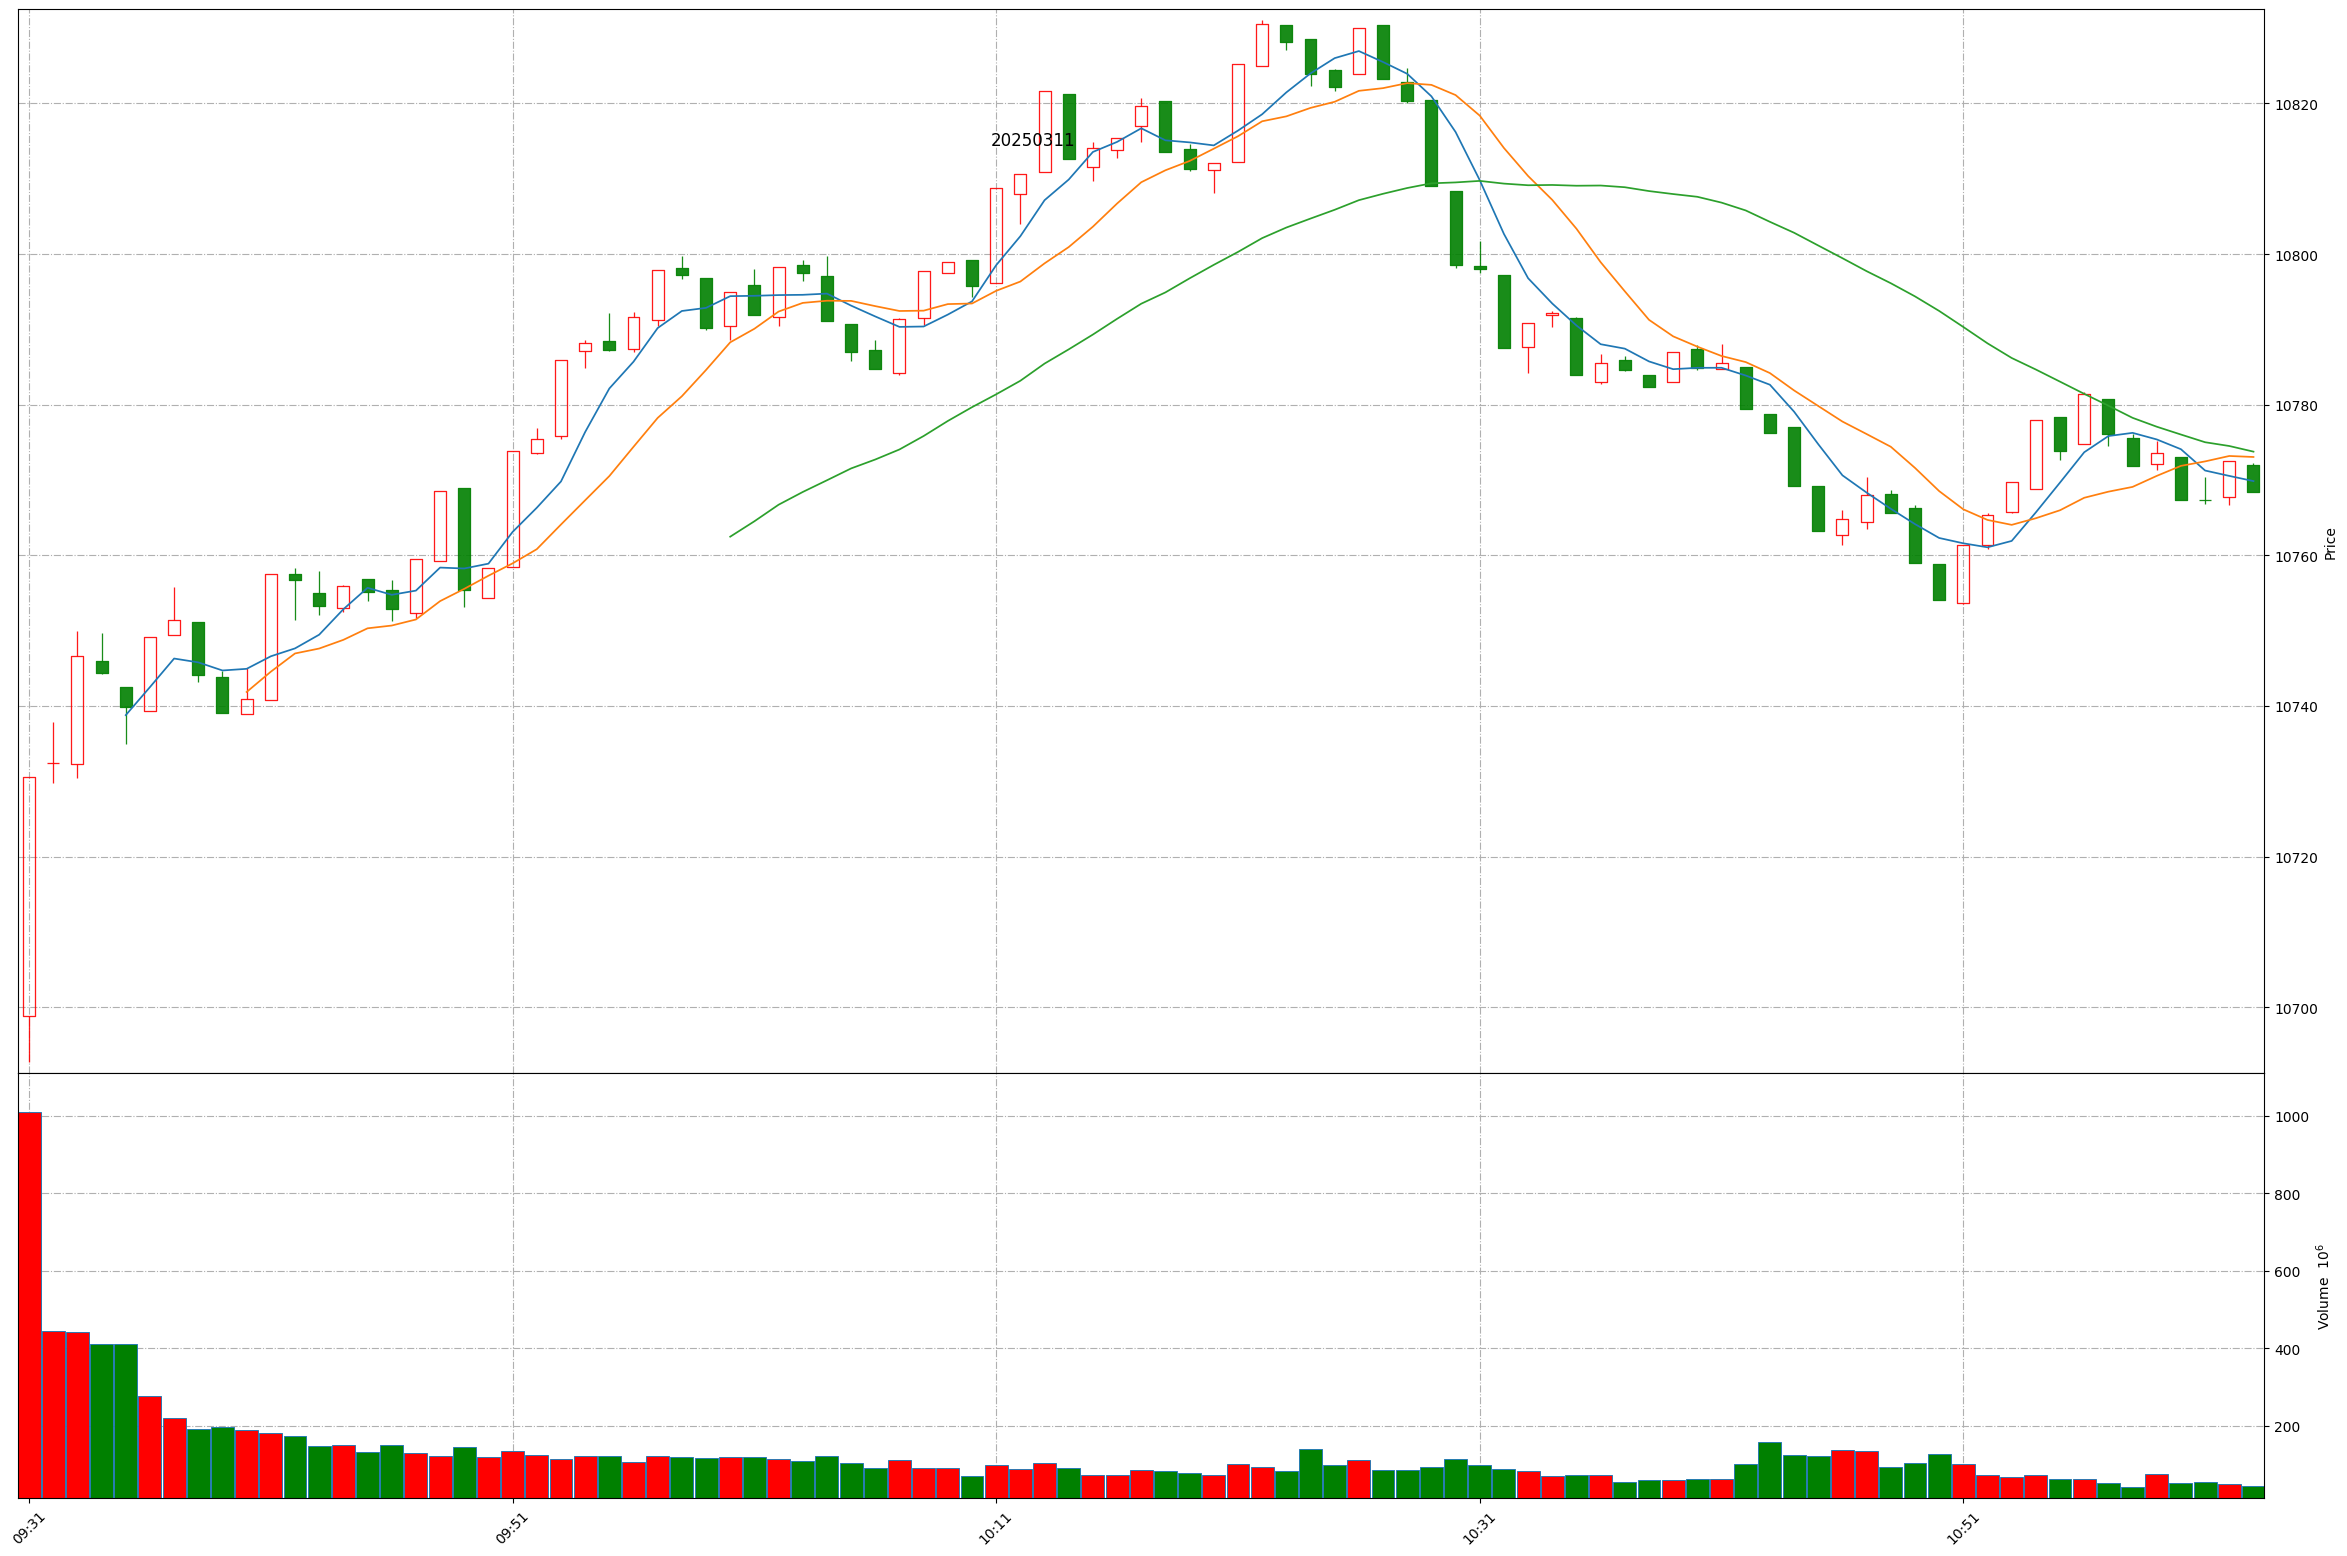
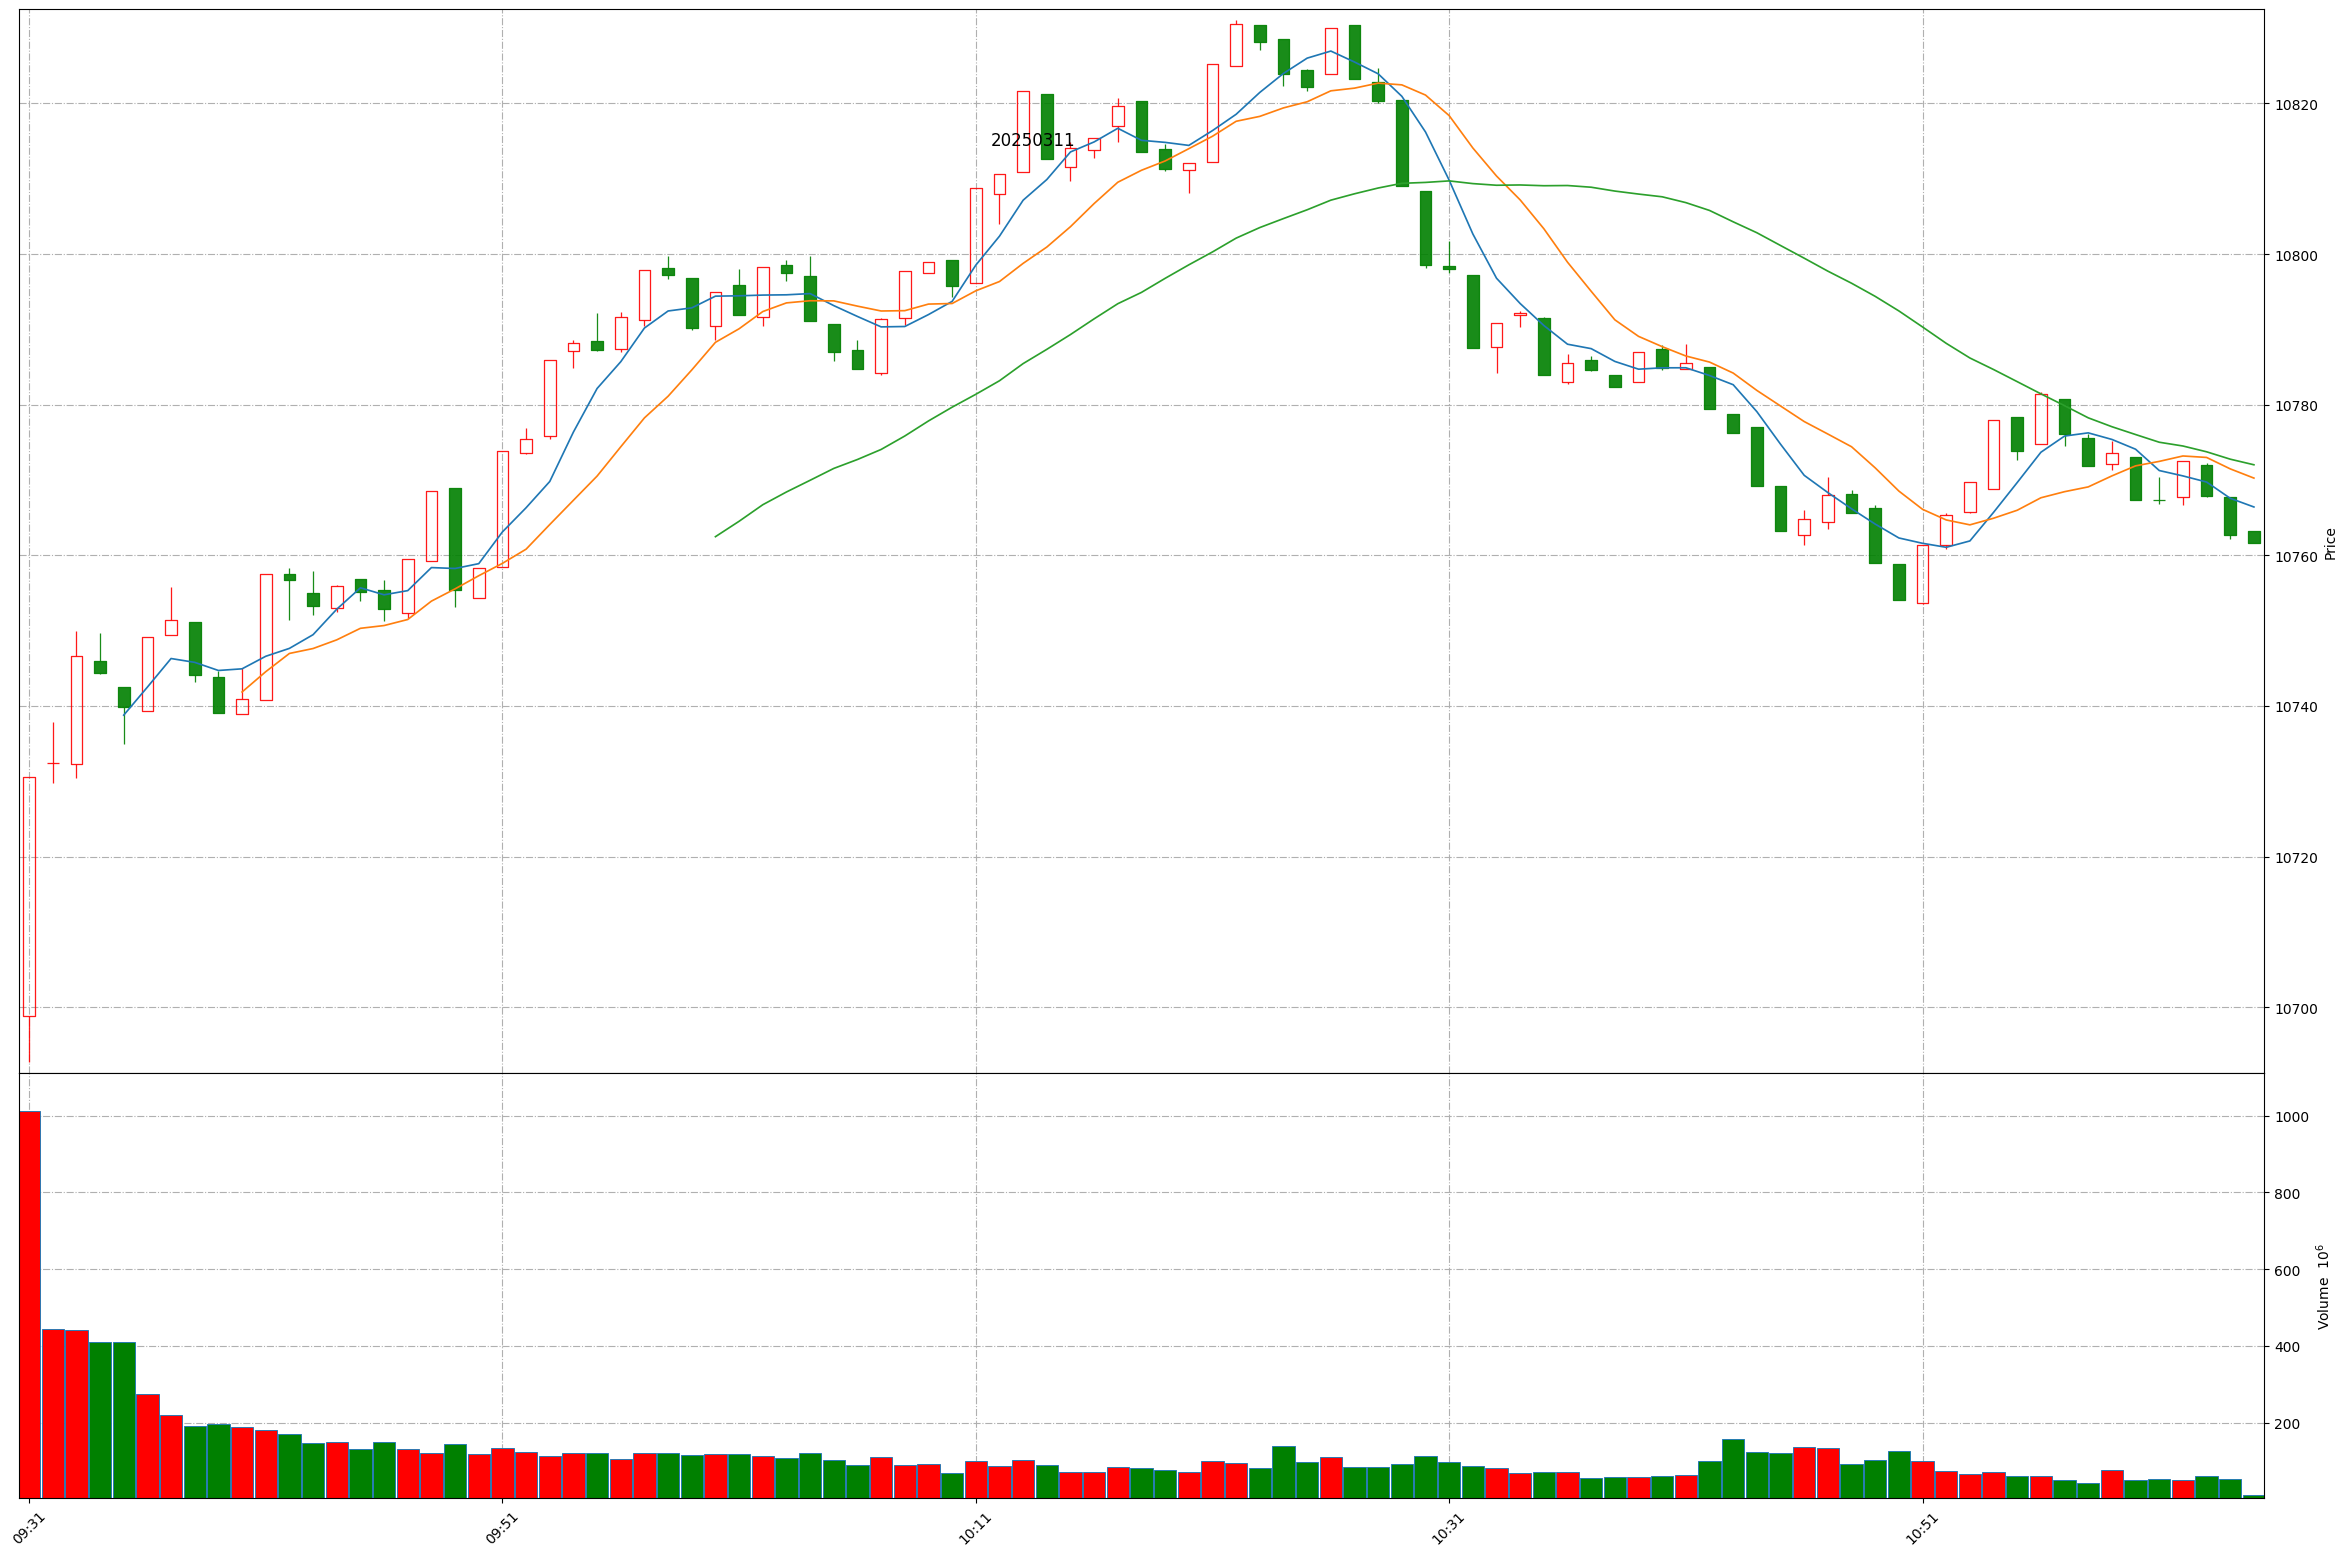
Github action update at 2025-03-11 11:04:27.

diff --git a/README.md b/README.md
@@ -1,11 +1,11 @@
 
 # Daily-A-share-market-quotes 每日 A 股指数（5min 更新）- 20250311
 
-### 上证指数 20250311 11:2
+### 上证指数 20250311 11:4
 ![](./fig/2025/3/20250311-sh000001.png)
 
-### 深证成指 20250311 11:2
+### 深证成指 20250311 11:4
 ![](./fig/2025/3/20250311-sz399001.png)
 
-### 北证50 20250311 11:2
+### 北证50 20250311 11:4
 ![](./fig/2025/3/20250311-bj899050.png)
